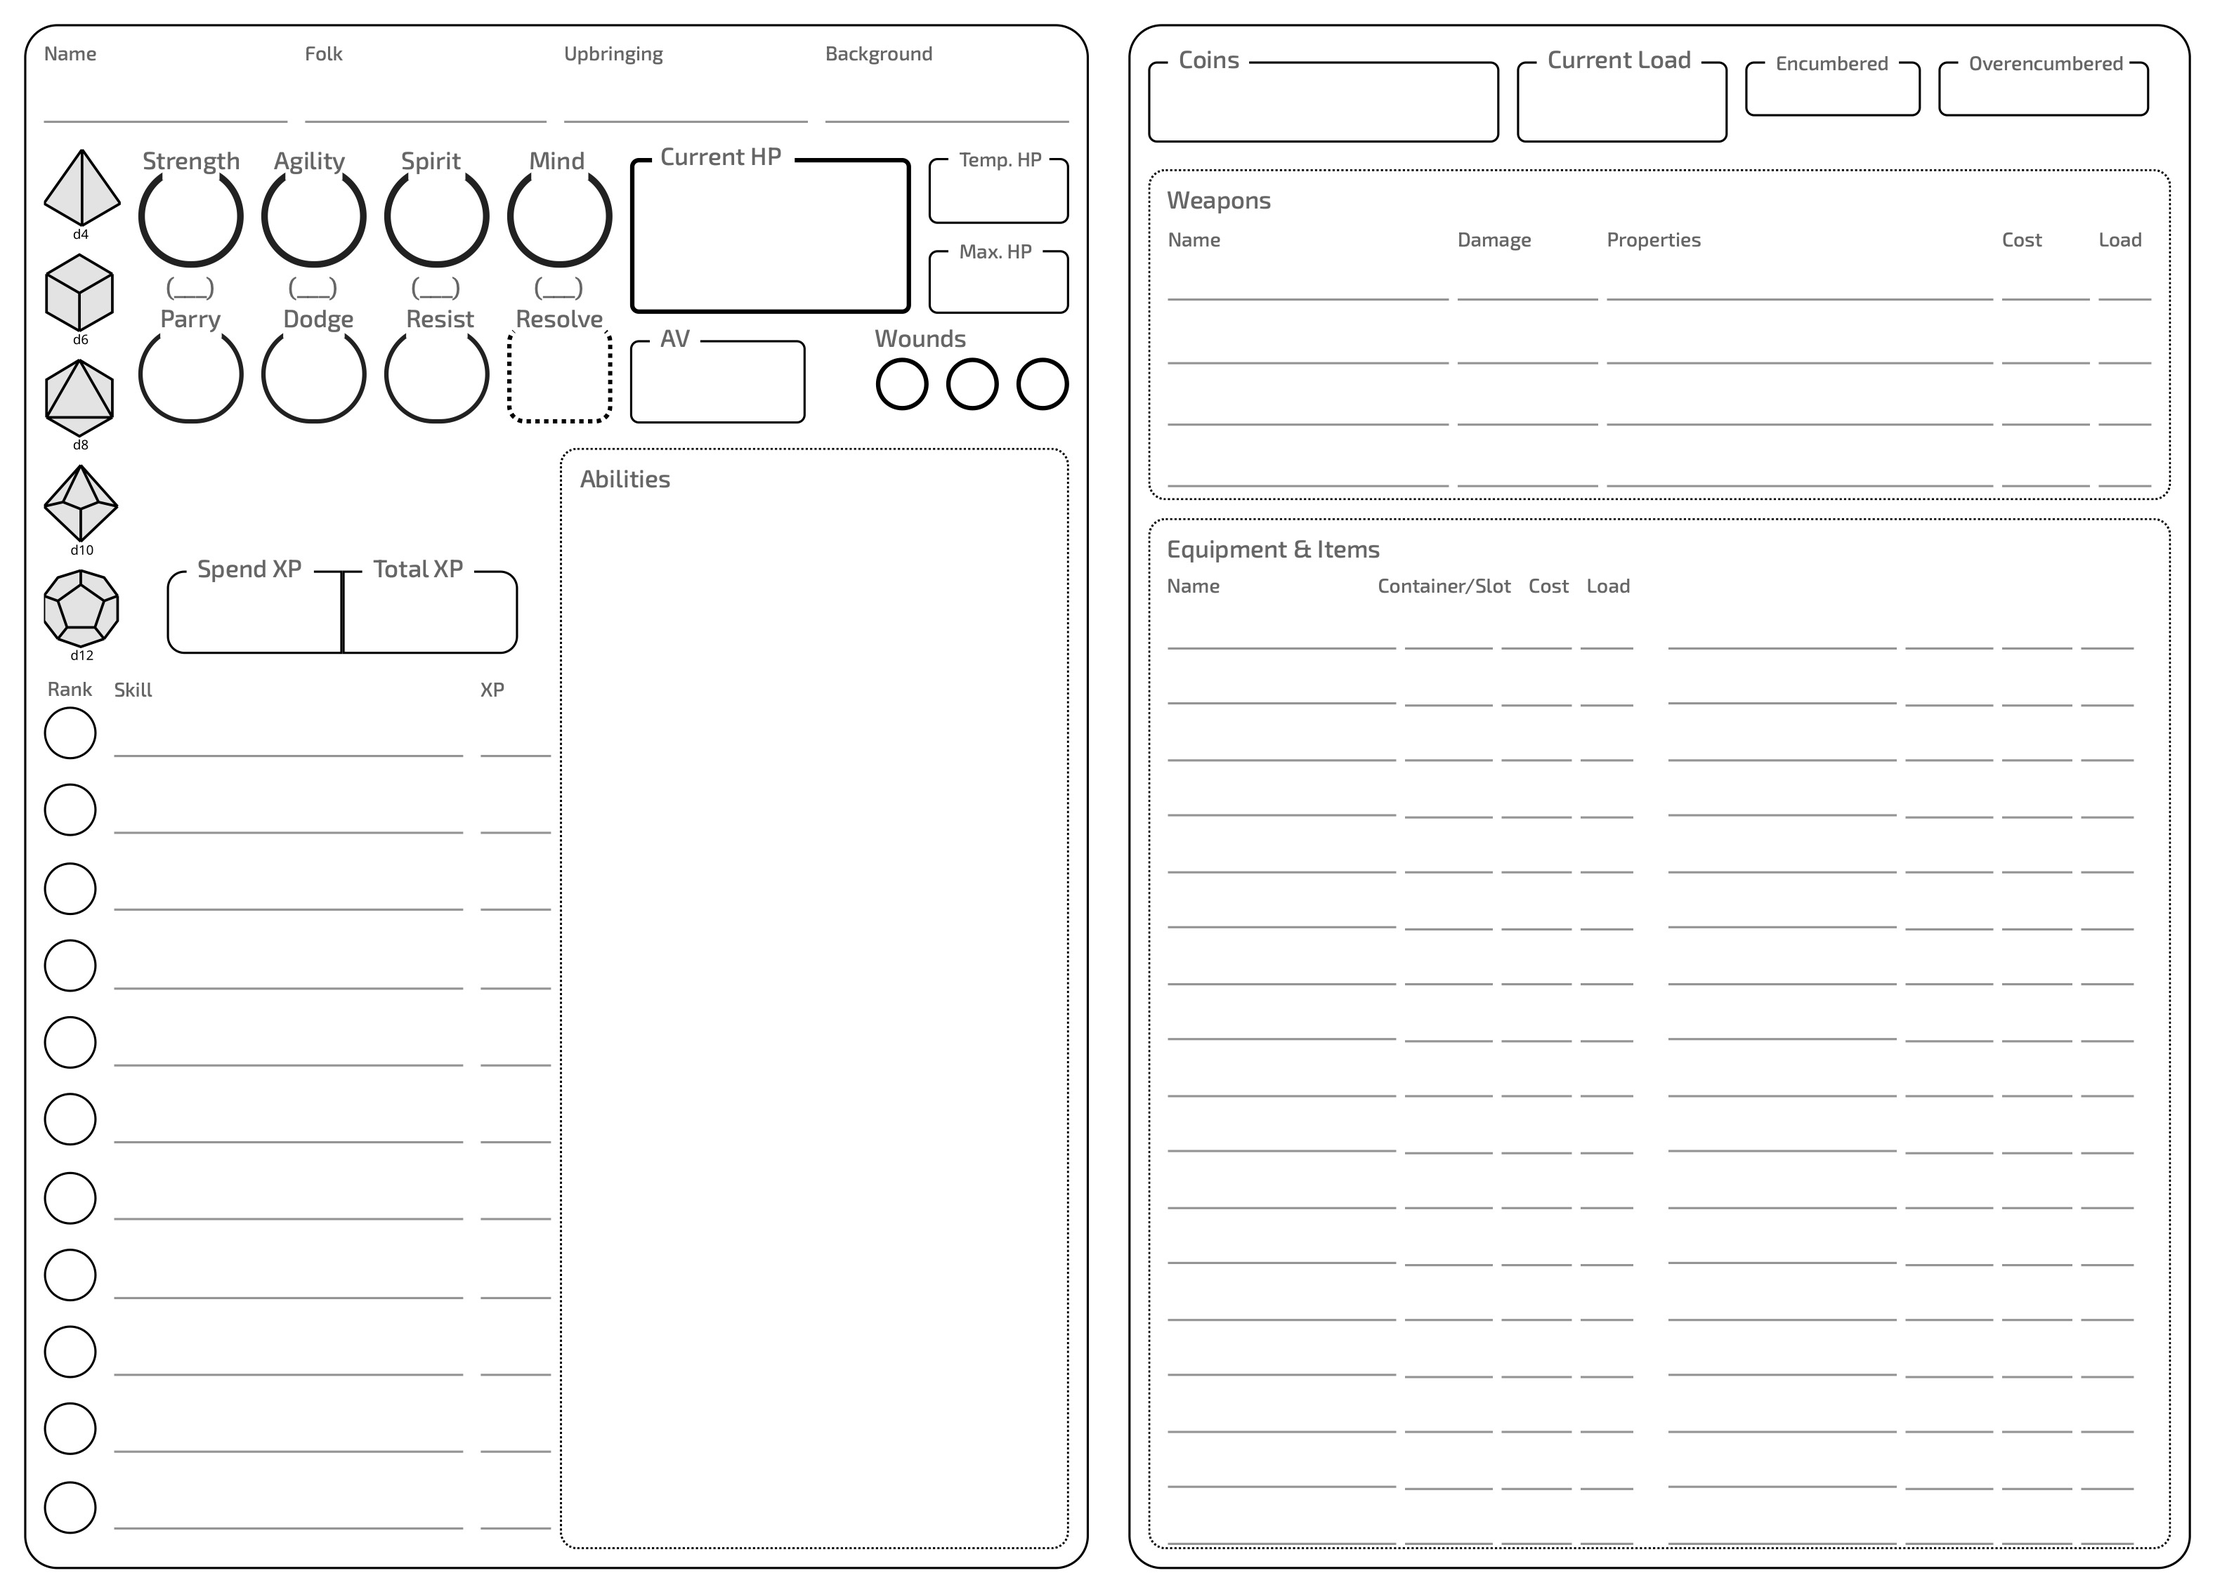
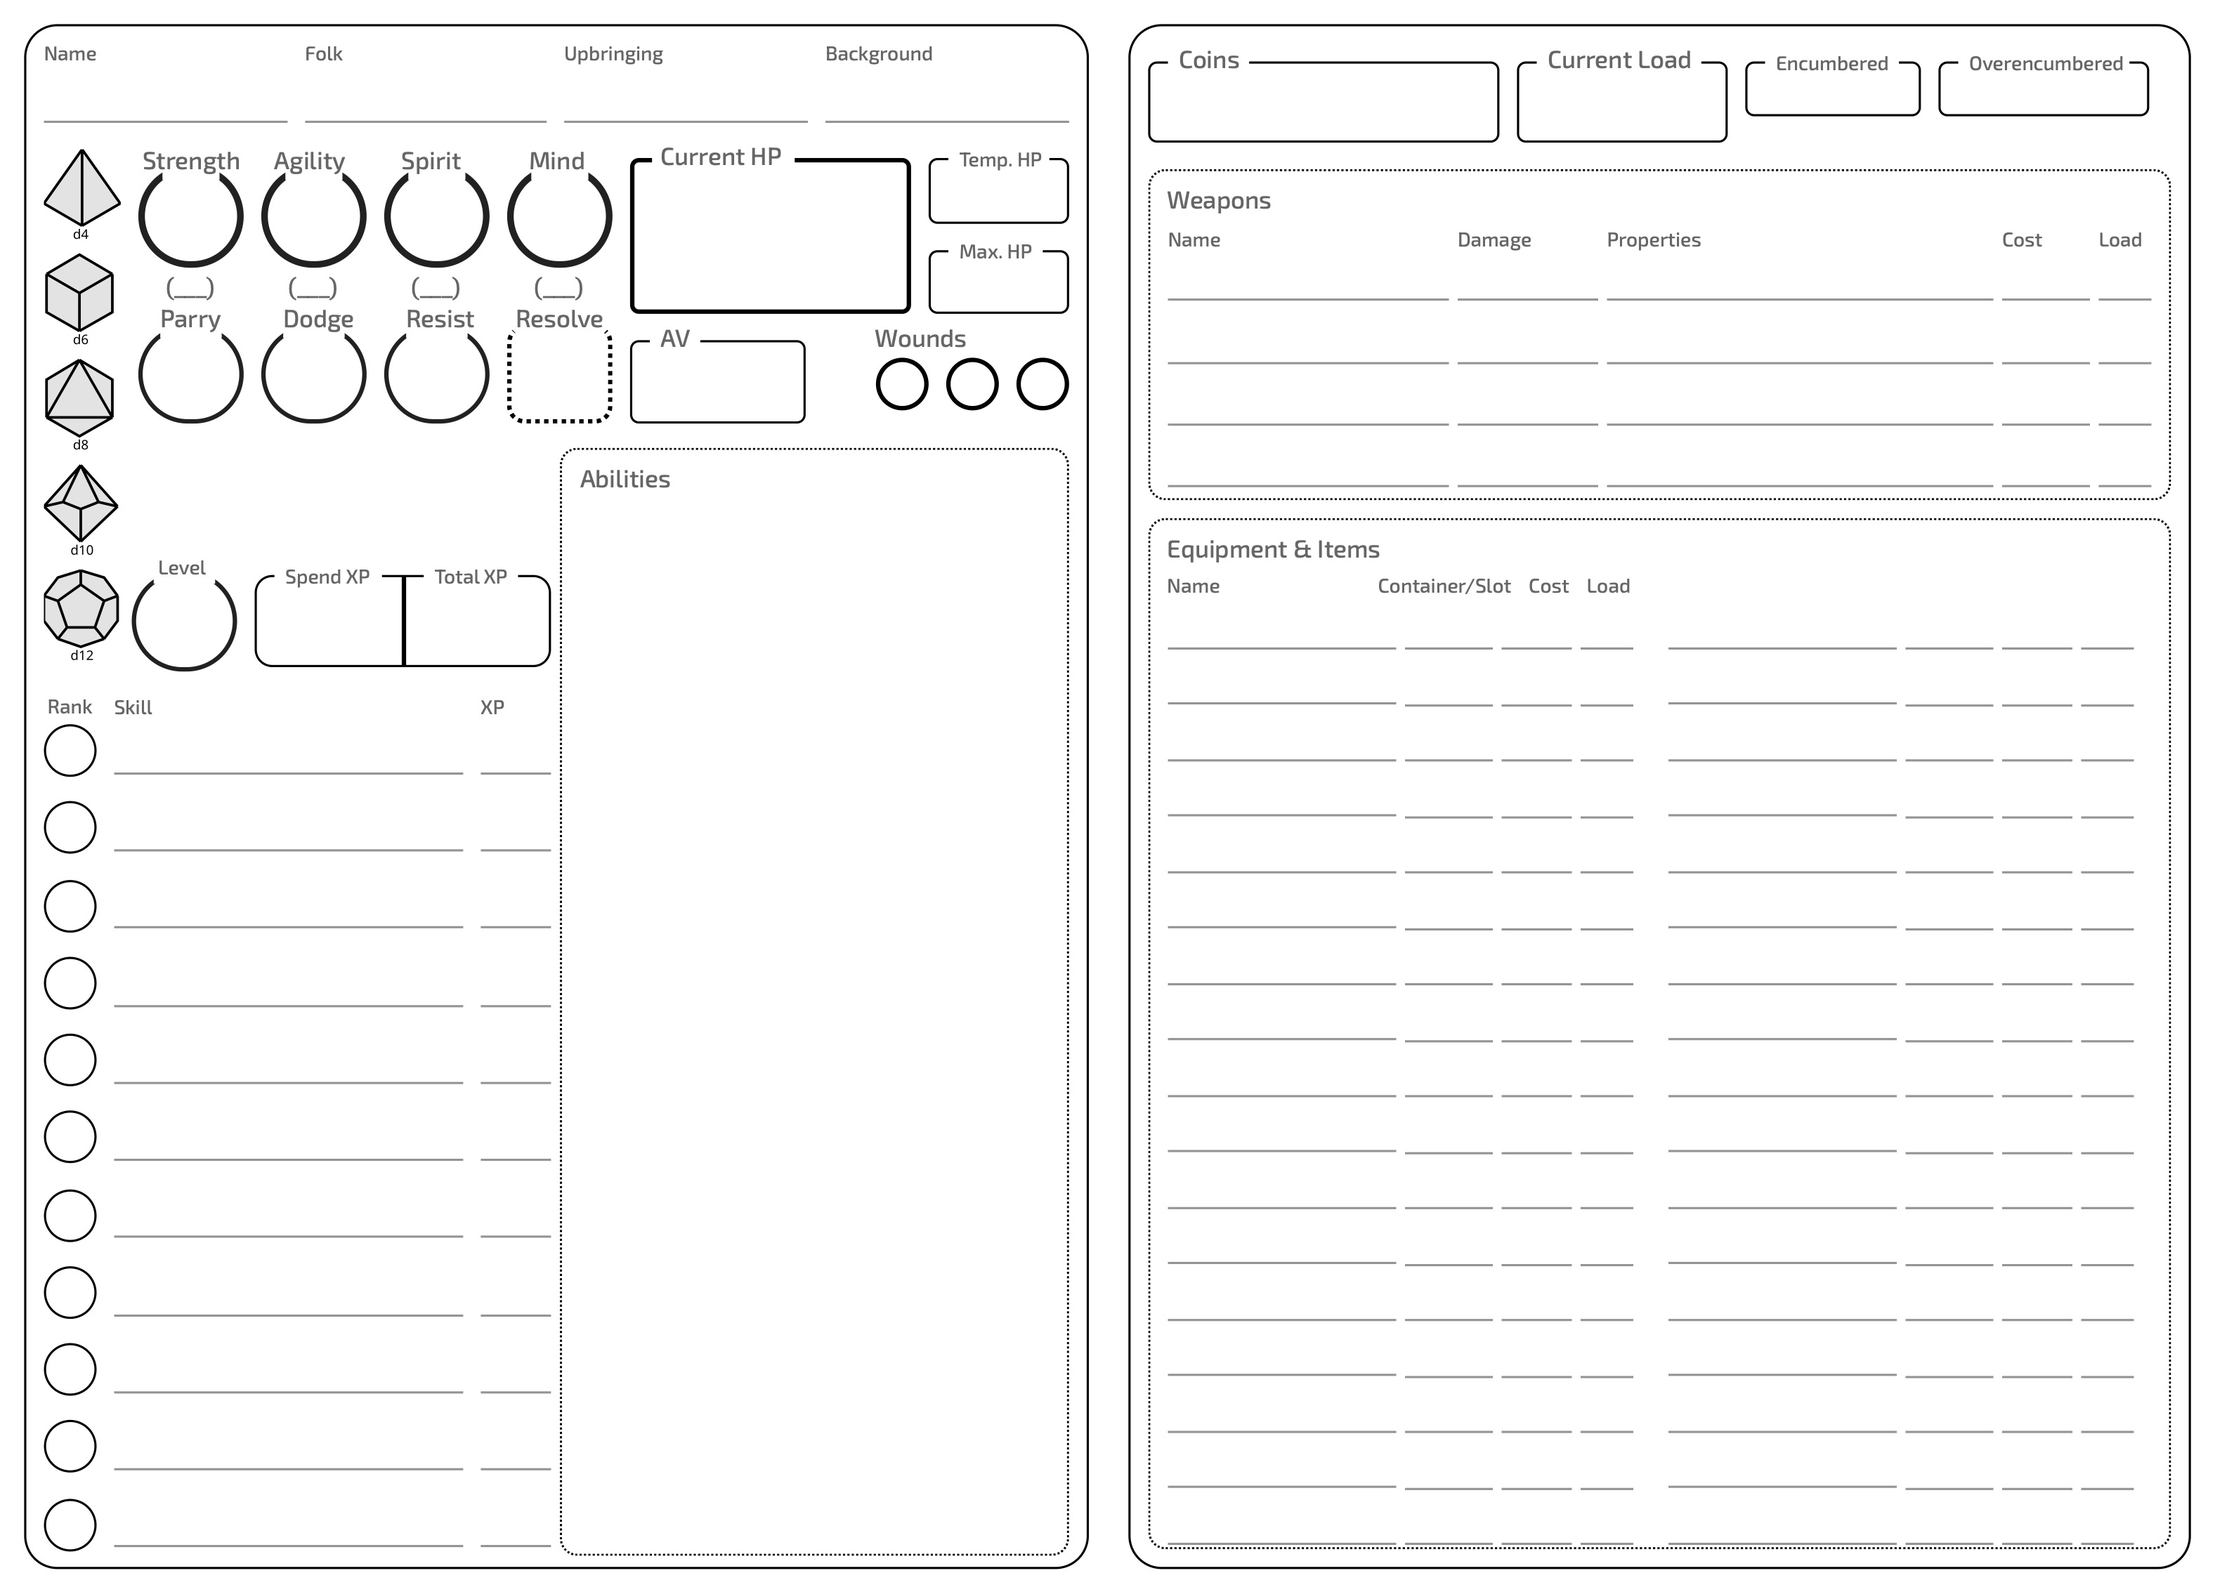
add new leveling system to character sheet and fix printing

diff --git a/src/features/PrintCharacterSheet/sheets/1_Statistics.tsx b/src/features/PrintCharacterSheet/sheets/1_Statistics.tsx
@@ -10,6 +10,7 @@ import {
 	OutlinedTextfield,
 	RankIndicator,
 } from '../PrintCharacterSheet'
+import { calculateCharacterLevel } from '../../CharacterSheet/utils/calculateCharacterLevel'
 
 const AttributeField = styled(RoundTextField)({
 	marginBottom: 0,
@@ -65,7 +66,11 @@ export const StatisticsSheet: React.FC<{ char: Character }> = ({ char }) => {
 				<Box sx={{ display: 'flex', flexDirection: 'column' }}>
 					<Box sx={{ display: 'flex', gap: 1 }}>
 						<AttributeField
-							value={char.statistics.strength.value ? 'd' + char.statistics.strength.value : ' '}
+							value={
+								char.statistics.strength.value
+									? 'd' + char.statistics.strength.value
+									: ' '
+							}
 							label="Strength"
 							helperText={char.statistics.strength.wounded ? '( W )' : '(___)'}
 							sx={{
@@ -75,7 +80,11 @@ export const StatisticsSheet: React.FC<{ char: Character }> = ({ char }) => {
 							}}
 						/>
 						<AttributeField
-							value={char.statistics.agility.value ? 'd' + char.statistics.agility.value : ' '}
+							value={
+								char.statistics.agility.value
+									? 'd' + char.statistics.agility.value
+									: ' '
+							}
 							label="Agility"
 							helperText={char.statistics.agility.wounded ? '( W )' : '(___)'}
 							sx={{
@@ -85,7 +94,11 @@ export const StatisticsSheet: React.FC<{ char: Character }> = ({ char }) => {
 							}}
 						/>
 						<AttributeField
-							value={char.statistics.spirit.value ? 'd' + char.statistics.spirit.value : ' '}
+							value={
+								char.statistics.spirit.value
+									? 'd' + char.statistics.spirit.value
+									: ' '
+							}
 							label="Spirit"
 							helperText={char.statistics.spirit.wounded ? '( W )' : '(___)'}
 							sx={{
@@ -95,7 +108,11 @@ export const StatisticsSheet: React.FC<{ char: Character }> = ({ char }) => {
 							}}
 						/>
 						<AttributeField
-							value={char.statistics.mind.value ? 'd' + char.statistics.mind.value : ' '}
+							value={
+								char.statistics.mind.value
+									? 'd' + char.statistics.mind.value
+									: ' '
+							}
 							label="Mind"
 							helperText={char.statistics.mind.wounded ? '( W )' : '(___)'}
 							sx={{
@@ -248,31 +265,45 @@ export const StatisticsSheet: React.FC<{ char: Character }> = ({ char }) => {
 			</Box>
 			<Box sx={{ display: 'flex', height: '100%' }}>
 				<Box sx={{ width: '50%' }}>
-					<Box sx={{ display: 'flex', mt: 6 }}>
+					<Box sx={{ display: 'flex', mt: 6, alignItems: "center" }}>
+						<RoundTextField
+							value={(typeof char.skills.xp.spend == 'number') ? calculateCharacterLevel(char.skills.xp.spend) : ' '}
+							label="Level"
+							sx={{
+								ml: 5,
+                mr: 1,
+								'& .MuiFormLabel-root.MuiInputLabel-root': {
+                  top: 1,
+									left: -2,
+                  fontSize: '12px',
+								},
+							}}
+						/>
 						<OutlinedTextfield
+							size="small"
 							value={char.skills.xp.spend}
 							label="Spend XP"
 							sx={{
-								ml: 7,
-								maxWidth: '5rem',
+								maxWidth: '4.5rem',
 								'& .MuiOutlinedInput-root': {
 									borderRadius: '8px 0px 0px 8px',
 									'& input': {
-										py: 1,
+										py: 1.5,
 									},
 								},
 							}}
 						/>
 						<OutlinedTextfield
+							size="small"
 							value={char.skills.xp.total}
 							label="Total XP"
 							sx={{
-								maxWidth: '5rem',
+								maxWidth: '4.5rem',
 								'& .MuiOutlinedInput-root': {
 									borderRadius: '0px 8px 8px 0px',
 								},
 								'& input': {
-									py: 1,
+									py: 1.5,
 								},
 							}}
 						/>

diff --git a/src/features/CharacterSheet/CharacterSheetTabs/01_Skills/SkillsTab.tsx b/src/features/CharacterSheet/CharacterSheetTabs/01_Skills/SkillsTab.tsx
@@ -1,30 +1,29 @@
 import { AddCircle, ExpandMore, HelpOutline } from '@mui/icons-material'
 import {
-	Accordion,
-	AccordionDetails,
-	AccordionSummary,
-	Box,
-	IconButton,
-	Tooltip,
+  Accordion,
+  AccordionDetails,
+  AccordionSummary,
+  Box,
+  IconButton,
+  Tooltip,
 } from '@mui/material'
 import React, { useMemo } from 'react'
 import { DropResult } from 'react-beautiful-dnd'
 import {
-	Ability,
-	AttributeType,
-	CharacterDocument,
-	Skill,
+  Ability,
+  CharacterDocument,
+  Skill
 } from '../../../../types/Character'
 import { AttributeField, SectionHeader } from '../../CharacterSheet'
 
-import { DynamicList, reorder } from '@site/src/components/DynamicList'
+import { DynamicList } from '@site/src/components/DynamicList'
 import { DynamicListItem } from '@site/src/components/DynamicList/DynamicListItem'
 import { DeepPartial } from '../../CharacterSheetContainer'
 import { characterSheetActions } from '../../characterSheetReducer'
 import { useAppDispatch } from '../../hooks/useAppDispatch'
 import { useAppSelector } from '../../hooks/useAppSelector'
-import { SkillRow } from './SkillRow'
 import { AbilityRow } from './AbilityRow'
+import { SkillRow } from './SkillRow'
 
 export const SkillsTab: React.FC = () => {
 	const dispatch = useAppDispatch()
@@ -38,25 +37,10 @@ export const SkillsTab: React.FC = () => {
 		dispatch(characterSheetActions.updateCharacter(update))
 	}
 
-	const calculateXpForAttribute = (attribute: AttributeType): number => {
-		return 2 * (attribute - 6) // d4: -4, d6: 0, d8: 4, d10: 8, d12: 12
-	}
-
 	const spendXP = useMemo(() => {
 		let newSpendXP = skills
 			.map((s) => s.xp)
 			.reduce((partialSum, a) => partialSum + a, 0)
-
-		newSpendXP += calculateXpForAttribute(
-			activeCharacter.statistics.strength.value,
-		)
-		newSpendXP += calculateXpForAttribute(
-			activeCharacter.statistics.agility.value,
-		)
-		newSpendXP += calculateXpForAttribute(
-			activeCharacter.statistics.spirit.value,
-		)
-		newSpendXP += calculateXpForAttribute(activeCharacter.statistics.mind.value)
 
 		if (newSpendXP != xp.spend) {
 			updateCharacter({ skills: { xp: { spend: newSpendXP } } })

diff --git a/src/features/CharacterSheet/CharacterSheetHeader.tsx b/src/features/CharacterSheet/CharacterSheetHeader.tsx
@@ -1,29 +1,29 @@
-import { useColorMode } from '@docusaurus/theme-common'
 import { Download, Reply, Save, Star } from '@mui/icons-material'
 import {
-	Box,
-	Button,
-	CircularProgress,
-	Dialog,
-	DialogActions,
-	DialogContent,
-	DialogContentText,
-	DialogTitle,
-	IconButton,
-	Link,
-	TextField,
-	Tooltip,
-	Typography,
+  Box,
+  Button,
+  CircularProgress,
+  Dialog,
+  DialogActions,
+  DialogContent,
+  DialogContentText,
+  DialogTitle,
+  IconButton,
+  Link,
+  TextField,
+  Tooltip,
+  Typography,
 } from '@mui/material'
 import { db } from '@site/src/config/firebase'
 import { useAuth } from '@site/src/hooks/firebaseAuthContext'
+import { CharacterDocument } from '@site/src/types/Character'
 import { addDoc, collection } from 'firebase/firestore'
 import React from 'react'
 import { useAppSelector } from './hooks/useAppSelector'
 import { UserAvatar } from './UserAvatar'
+import { calculateCharacterLevel } from './utils/calculateCharacterLevel'
 import { createInitialCharacter } from './utils/createInitialCharacter'
 import { downloadFile } from './utils/donwloadFile'
-import { Character, CharacterDocument } from '@site/src/types/Character'
 
 const MAX_NAME_LENGTH = 1_000
 
@@ -116,7 +116,9 @@ export const CharacterSheetHeader: React.FC<CharacterSheetHeaderProps> = ({
 					}}
 				>
 					{!activeCharacterId && 'Your Characters'}
-					{activeCharacterId && activeCharacter?.personal.name}
+					{activeCharacterId &&
+						activeCharacter &&
+						`${activeCharacter?.personal.name} (Level ${calculateCharacterLevel(activeCharacter?.skills.xp.spend)})`}
 				</Typography>
 				<Box sx={{ display: 'flex', gap: 2, ml: 'auto' }}>
 					{!activeCharacterId && (

diff --git a/src/features/PrintCharacterSheet/PrintCharacterSheet.tsx b/src/features/PrintCharacterSheet/PrintCharacterSheet.tsx
@@ -1,16 +1,13 @@
-import { useColorMode } from '@docusaurus/theme-common'
 import { Alert, Avatar, Box, Button, styled, TextField } from '@mui/material'
 import { Character } from '@site/src/types/Character'
-import React, { useEffect, useMemo, useRef } from 'react'
+import React, { useMemo, useRef } from 'react'
 import { useReactToPrint } from 'react-to-print'
-import { SectionHeader } from '../CharacterSheet/CharacterSheet'
+import { emptyCharacter } from './assets/emptyCharacter'
 import './printCharacterSheetStyles.css'
-import { StatisticsTab } from '../CharacterSheet/CharacterSheetTabs/00_Statistics/StatisticsTab'
 import { StatisticsSheet } from './sheets/1_Statistics'
 import { EquipmentSheet } from './sheets/2_Equipment'
 import { SpellsSheet } from './sheets/3_Spells'
 import { PersonalSheet } from './sheets/4_Personal'
-import { emptyCharacter } from './assets/emptyCharacter'
 
 const AttributeField = styled(TextField)({
 	maxWidth: '4.5rem',
@@ -81,6 +78,9 @@ export const PrintCharacterSheet: React.FC = () => {
 
 	return (
 		<Box>
+      <style type="text/css" media="print">{"\
+        @page {\ size: 267mm 192mm;\ }\
+      "}</style>
 			<Alert variant="filled" severity="info" sx={{ mb: 2 }}>
 				If you're having trouble seeing everything on the sheets, make sure to
 				use light mode (the printed result isn't affected either way)!

diff --git a/src/features/CharacterSheet/CharacterList/CharacterList.tsx b/src/features/CharacterSheet/CharacterList/CharacterList.tsx
@@ -15,6 +15,7 @@ import React, { useEffect } from 'react'
 import { CharacterDocument } from '../../../types/Character'
 import { mapDocToCharacter } from '../utils/mapDocToCharacter'
 import { DeleteButton } from './DeleteButton'
+import { calculateCharacterLevel } from '../utils/calculateCharacterLevel'
 
 const DOC_BLACKLIST = ['player-info']
 
@@ -94,7 +95,11 @@ export const CharacterList: React.FC = () => {
 									</Avatar>
 								</ListItemAvatar>
 								<ListItemText
-									primary={char?.personal?.name ?? '?'}
+									primary={
+										char
+											? `${char.personal.name} (Level ${calculateCharacterLevel(char.skills.xp.spend)})`
+											: 'Your Character'
+									}
 									sx={{ textDecoration: 'none' }}
 								/>
 							</ListItemButton>

diff --git a/src/features/ArcaneSpells/ArcaneSpells.tsx b/src/features/ArcaneSpells/ArcaneSpells.tsx
@@ -53,7 +53,7 @@ export const ArcaneSpells: React.FC = () => {
 
 	const componentRef = useRef()
 	const handlePrint = useReactToPrint({
-		content: () => componentRef.current,
+		content: () => componentRef.current
 	})
 	const arcaneSpells: ArcaneSpell[] = arcaneSpellData
 
@@ -68,6 +68,9 @@ export const ArcaneSpells: React.FC = () => {
 
 	return (
 		<Experimental_CssVarsProvider theme={customTheme}>
+      <style type="text/css" media="print">{"\
+        @page {\ size: 192mm 267mm;\ }\
+      "}</style>
 			<Stack
 				flexDirection="row"
 				gap={1}

diff --git a/src/features/CharacterSheet/utils/calculateCharacterLevel.ts b/src/features/CharacterSheet/utils/calculateCharacterLevel.ts
@@ -1,0 +1,24 @@
+export const calculateCharacterLevel = (xp: number) => {
+	switch (true) {
+		case xp < 10:
+			return 1
+		case xp < 16:
+			return 2
+		case xp < 24:
+			return 3
+		case xp < 32:
+			return 4
+		case xp < 42:
+			return 5
+		case xp < 52:
+			return 6
+		case xp < 64:
+			return 7
+		case xp < 76:
+			return 8
+		case xp < 90:
+			return 9
+		default:
+			return 10
+	}
+}

diff --git a/src/features/PrintCharacterSheet/sheets/2_Equipment.tsx b/src/features/PrintCharacterSheet/sheets/2_Equipment.tsx
@@ -221,7 +221,7 @@ export const EquipmentSheet: React.FC<{ char: Character }> = ({ char }) => {
 							<TextField
 								size="small"
 								variant="standard"
-								value={item.name}
+								value={`${item.name} ${item.amount > 1 ? 'x' + item.amount : ''}`}
 								sx={{
 									width: '6.5rem',
 									mt: 0.5,

diff --git a/src/features/MysticSpells/MysticSpells.tsx b/src/features/MysticSpells/MysticSpells.tsx
@@ -68,6 +68,9 @@ export const MysticSpells: React.FC = () => {
 
 	return (
 		<Experimental_CssVarsProvider theme={customTheme}>
+      <style type="text/css" media="print">{"\
+        @page {\ size: 192mm 267mm;\ }\
+      "}</style>
 			<Stack
 				flexDirection="row"
 				gap={1}

diff --git a/src/features/CombatArts/CombatArts.tsx b/src/features/CombatArts/CombatArts.tsx
@@ -67,6 +67,9 @@ export const CombatArts: React.FC = () => {
 
 	return (
 		<Experimental_CssVarsProvider theme={customTheme}>
+      <style type="text/css" media="print">{"\
+        @page {\ size: 192mm 267mm;\ }\
+      "}</style>
 			<Stack
 				flexDirection="row"
 				gap={1}

diff --git a/src/features/CharacterSheet/CharacterSheet.tsx b/src/features/CharacterSheet/CharacterSheet.tsx
@@ -21,7 +21,7 @@ AttributeField.defaultProps = {
 }
 
 export const SectionHeader = styled(Typography)(({ theme }) => ({
-	marginBottom: `${theme.spacing(0.75)} !important`,
+	marginBottom: `${theme.spacing(0.75)} `,
 }))
 SectionHeader.defaultProps = {
 	fontWeight: 'bold',

diff --git a/src/features/PrintCharacterSheet/printCharacterSheetStyles.css b/src/features/PrintCharacterSheet/printCharacterSheetStyles.css
@@ -6,12 +6,12 @@
 
 @media print {
 	.page-break {
-		display: block !important;
-		break-after: page !important;
+		display: block;
+		break-after: page;
 	}
 }
 
 @page {
-	size: 267mm 192mm !important;
-	margin: 0.5mm !important;
+	size: 267mm 192mm;
+	margin: 0.5mm;
 }
